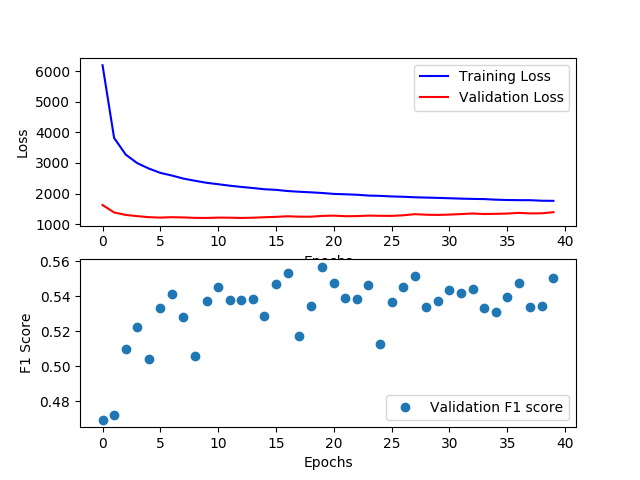
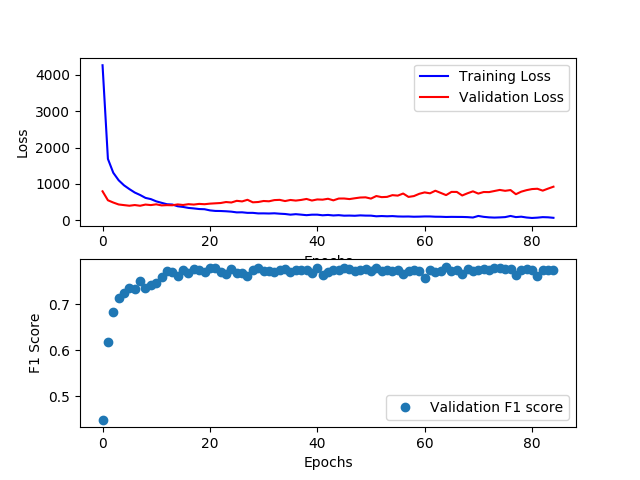
test.py

diff --git a/copy_model/test.py b/copy_model/test.py
@@ -45,36 +45,45 @@ def get_batches(data):
         datum = data[x]
         q_sent, qh_text, qt_text, ch_text, ct_text = datum['query_sent'], \
                 datum['query_head_text'], datum['query_tail_text'],\
-            datum['context_head_text'], datum['context_tail_text']
-        qh, qt, ql, ch, ct, cl = datum['query_head'], datum['query_tail'], \
-                                 datum['query_labels'], datum['context_head'], \
-                                 datum['context_tail'], datum['context_labels']
+                datum['context_head_text'], datum['context_tail_text']
+        qh, qt, ql, ch, ct, cl = datum['query_head'], datum['query_tail'],\
+                        datum['query_labels'], datum['context_head'], \
+                        datum['context_tail'], datum['context_labels']
+        qht, qtt, cht, ctt = datum['query_head_type'], datum['query_tail_type'],\
+                datum['context_head_type'], datum['context_tail_type']
         qh = torch.from_numpy(qh).unsqueeze(0)
         qt = torch.from_numpy(qt).unsqueeze(0)
         ql = torch.from_numpy(ql).unsqueeze(0)
-        if torch.isnan(torch.stack([qh, qt])).any():
+        qht = torch.from_numpy(qht).unsqueeze(0)
+        qtt = torch.from_numpy(qtt).unsqueeze(0)
+        if torch.isnan(torch.stack([qh,qt])).any():
             continue
         elif type(cl) != np.ndarray:
-            ch, ct, cl, mask = None, None, None, None
+            ch,ct,cl,cht,ctt,mask = None, None, None, None, None, None
         else:
             ch = torch.from_numpy(ch).unsqueeze(0)
             cl = torch.from_numpy(cl).unsqueeze(0)
             ct = torch.from_numpy(ct).unsqueeze(0)
-            if torch.isnan(torch.stack([ch, ct])).any():
+            ctt = torch.from_numpy(ctt).unsqueeze(0)
+            cht = torch.from_numpy(cht).unsqueeze(0)
+            if torch.isnan(torch.stack([ch,ct])).any():
                 continue
             mask = torch.from_numpy(np.ones_like(cl))
         if args.gpu:
             qh = qh.cuda()
             qt = qt.cuda()
             ql = ql.cuda()
+            qtt = qtt.cuda()
+            qht = qht.cuda()
             if ch is not None:
                 ch = ch.cuda()
                 cl = cl.cuda()
                 ct = ct.cuda()
+                cht = cht.cuda()
+                ctt = ctt.cuda()
                 mask = mask.cuda()
 
-        yield q_sent, (qh_text, qt_text), (ch_text, ct_text), (qh, qt), (ch, ct), cl, ql, mask
-
+        yield q_sent, (qh_text, qt_text), (ch_text, ct_text), ((qh, qht), (qt, qtt)), ((ch, cht), (ct, ctt)), cl, ql, mask
 
 def accuracy(data, model):
     with torch.no_grad():
@@ -89,7 +98,7 @@ def accuracy(data, model):
         f = open(args.test_output_path, 'w')
         writer = csv.writer(f)
         writer.writerow(['Sentence', 'Relations in context', 'Head', 'Tail',
-                         'Target', 'Prediction'])
+                         'Target', 'Prediction', 'correct'])
 
         def write_csv_row(writer, sent, qtext, qlabels, ctext, clabels, pred):
             qlabels = qlabels.view(-1)
@@ -105,7 +114,8 @@ def accuracy(data, model):
             else:
                 copyable = 'No Context found'
             for a,b,c,d in zip(qh,qt,qlabels, pred):
-                writer.writerow([sent, copyable, a, b, relations[c], relations[d]])
+                writer.writerow([sent, copyable, a, b, relations[c],
+                                 relations[d], c==d])
 
 
 
@@ -179,8 +189,7 @@ def accuracy(data, model):
         return total_accuracy, accuracy_existing_relations
 
 
-model = CopyEditor(EMBEDDING_SIZE, num_classes, copy=args.copy,
-                   generate=args.generate)
+model = CopyEditor(EMBEDDING_SIZE, args)
 model.load_state_dict(torch.load(MODEL_PATH, map_location=torch.device('cpu')))
 model.eval()
 

diff --git a/copy_model/argparser.py b/copy_model/argparser.py
@@ -28,7 +28,7 @@ parser.add_argument('--test_output_path', action='store', dest='test_output_path
                     help='File to save test csv',
                     default='test_output.csv')
 parser.add_argument('--epochs', action='store', dest='epochs', type=int,
-                    help='Number of epochs', default=50)
+                    help='Number of epochs', default=200)
 parser.add_argument('--shouldcopy_hidden_dims', action='store',
                     dest='shouldcopy_hidden_dims', type=list,
                     help='hidden dimensions for mlp for copyprob', default=[256,128,64])
